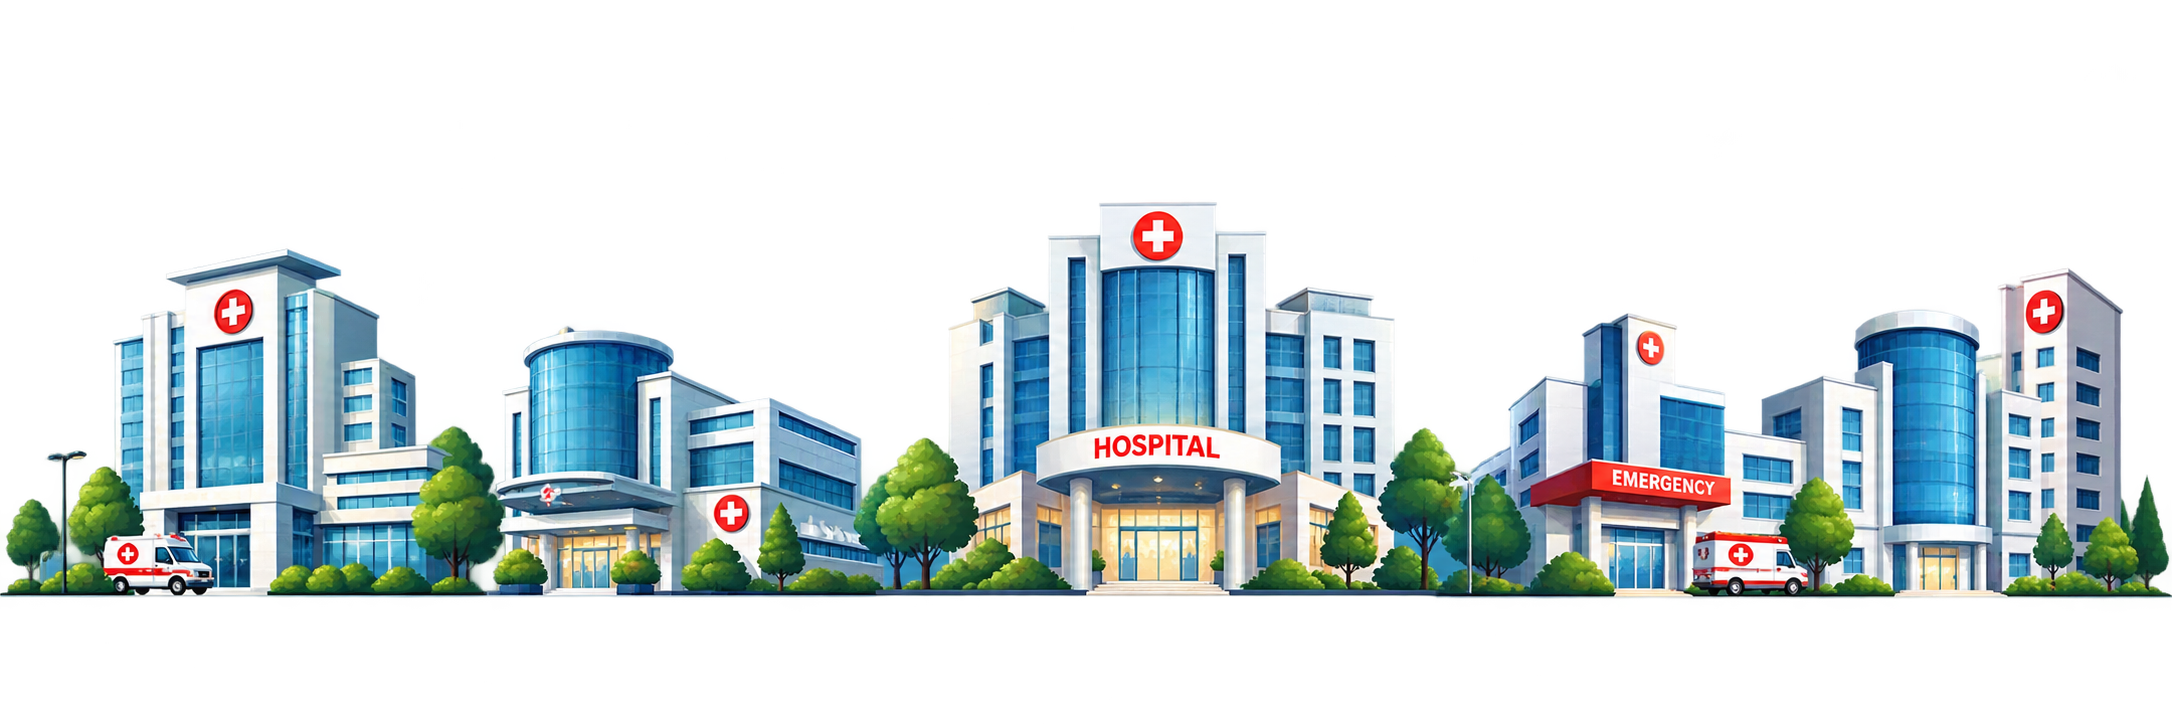
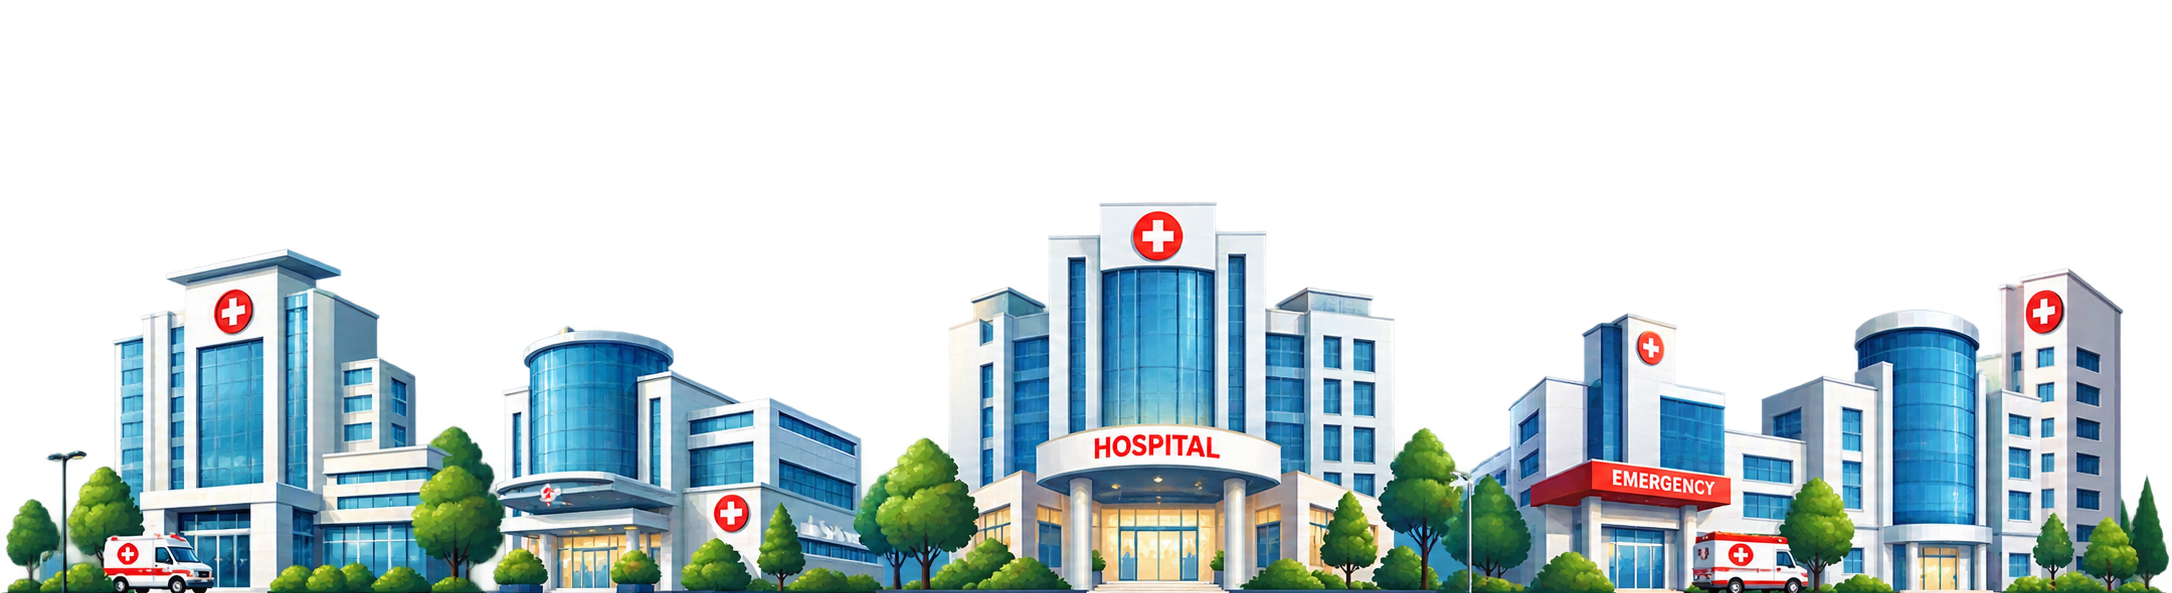
Set footer-bg.png as true bottom background image of site-footer

diff --git a/assets/css/main.css b/assets/css/main.css
@@ -3034,11 +3034,15 @@ body {
   z-index: 2;
   isolation: isolate;
   overflow: hidden;
-  background-color: #080c14;
+  background-color: #06090e;
   background-image:
+    url("../images/footer-bg.png"),
     radial-gradient(ellipse 900px 500px at 15% 0%, rgba(127, 209, 193, 0.08) 0%, transparent 70%),
     radial-gradient(ellipse 700px 450px at 85% 20%, rgba(26, 117, 102, 0.07) 0%, transparent 70%),
     linear-gradient(180deg, #090e17 0%, #06080d 100%);
+  background-position: center bottom, center top, center top, center center;
+  background-repeat: no-repeat, no-repeat, no-repeat, no-repeat;
+  background-size: 100% auto, auto, auto, auto;
   color: #ffffff;
   font-family: var(--font-sans);
   padding-top: clamp(3.5rem, 6vw, 5.5rem);
@@ -3221,7 +3225,7 @@ body {
   display: grid;
   grid-template-columns: repeat(4, minmax(0, 1fr));
   gap: clamp(1.75rem, 3.2vw, 3.5rem);
-  padding-bottom: clamp(3rem, 5vw, 4.5rem);
+  padding-bottom: clamp(6rem, 12vw, 14rem);
 }
 
 .footer-col {
@@ -3348,29 +3352,13 @@ body {
   transform: translateY(0);
 }
 
-/* ---------- Hospital Architectural Skyline Panorama (Edge to Edge) ---------- */
-.footer-skyline {
-  position: relative;
-  width: 100%;
-  overflow: hidden;
-  line-height: 0;
-  pointer-events: none;
-  border-top: 1px solid rgba(255, 255, 255, 0.06);
-}
-
-.footer-skyline__img {
-  width: 100%;
-  max-width: 100%;
-  height: clamp(120px, 16vw, 280px);
-  object-fit: cover;
-  object-position: center bottom;
-  display: block;
-}
-
 /* ---------- BOTTOM BAR ---------- */
 .footer-bottom {
   border-top: 1px solid rgba(255, 255, 255, 0.08);
-  padding-block: 1.5rem;
+  background: rgba(6, 9, 14, 0.72);
+  -webkit-backdrop-filter: blur(12px);
+  backdrop-filter: blur(12px);
+  padding-block: 1.25rem;
   font-size: 0.8125rem;
   color: rgba(255, 255, 255, 0.5);
 }

diff --git a/assets/js/main.js b/assets/js/main.js
@@ -425,8 +425,7 @@
       })
         .from('[data-footer-top]', { opacity: 0, y: 30, duration: 0.8, ease: 'power3.out' }, 0)
         .from('[data-footer-col]', { opacity: 0, y: 25, duration: 0.7, ease: 'power3.out', stagger: 0.1 }, 0.15)
-        .from('[data-footer-skyline]', { opacity: 0, y: 20, duration: 1, ease: 'power2.out' }, 0.35)
-        .from('[data-footer-bottom]', { opacity: 0, duration: 0.8, ease: 'power2.out' }, 0.45);
+        .from('[data-footer-bottom]', { opacity: 0, duration: 0.8, ease: 'power2.out' }, 0.35);
     }
   }
 

diff --git a/include/footer.php b/include/footer.php
@@ -126,11 +126,6 @@
 
     </div>
 
-    <!-- Hospital Architectural Skyline Panorama (matching reference layout) -->
-    <div class="footer-skyline" aria-hidden="true" data-footer-skyline>
-      <img class="footer-skyline__img" src="assets/images/footer-bg.png" alt="" loading="lazy" decoding="async">
-    </div>
-
     <!-- Bottom Bar -->
     <div class="footer-bottom" data-footer-bottom>
       <div class="footer-bottom__inner">
